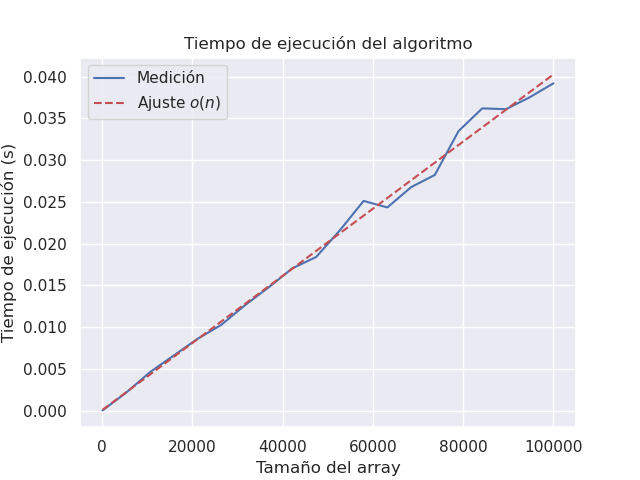
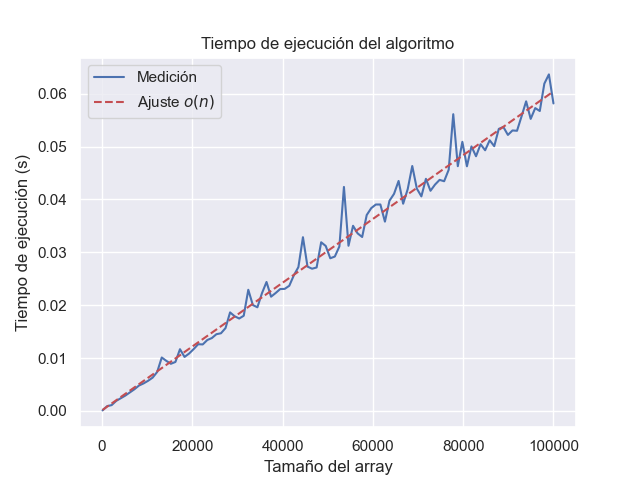
Se agregaron mas sets de datos a las mediciones del tp2

diff --git a/Primera Parte/grafico.py b/Primera Parte/grafico.py
@@ -6,46 +6,48 @@ import seaborn as sns
 import numpy as np
 import scipy as sp
 from util import time_algorithm
-
-
-# Siempre seteamos la seed de aleatoridad para que los # resultados sean reproducibles
-seed(12345)
-np.random.seed(12345)
-
-sns.set_theme()
+from multiprocessing import freeze_support
 
 def get_random_array(size: int):
-    return np.random.randint(0, 100.000, size)
+    return np.random.randint(0, 100_000, size)
 
-x = np.linspace(100, 100_000, 20).astype(int)
-results = time_algorithm(juego_greedy, x, lambda s: [get_random_array(s)])
+def main():
+    # Siempre seteamos la seed de aleatoridad para que los resultados sean reproducibles
+    seed(12345)
+    np.random.seed(12345)
 
+    sns.set_theme()
 
-#funcion lineal
-f_n = lambda n, c1, c2: c1 * n + c2
+    x = np.linspace(100, 100_000, 100).astype(int)
+    results = time_algorithm(juego_greedy, x, lambda s: [get_random_array(s)])
 
-## Para ajustar la funcion
-c_n, _ = sp.optimize.curve_fit(f_n, x, [results[n] for n in x])
+    #funcion lineal
+    f_n = lambda n, c1, c2: c1 * n + c2
 
-ax: plt.Axes
-fig, ax = plt.subplots()
-ax.plot(x, [results[n] for n in x], label="Medición")
-ax.plot(x, [f_n(n, c_n[0], c_n[1]) for n in x], 'r--', label="Ajuste $o(n)$")
-ax.set_title('Tiempo de ejecución del algoritmo')
-ax.set_xlabel('Tamaño del array')
-ax.set_ylabel('Tiempo de ejecución (s)')
-ax.legend()
-None
+    ## Para ajustar la funcion
+    c_n, _ = sp.optimize.curve_fit(f_n, x, [results[n] for n in x])
 
-errors_n = [np.abs(c_n[0] * n + c_n[1] - results[n]) for n in x]
+    ax: plt.Axes
+    fig, ax = plt.subplots()
+    ax.plot(x, [results[n] for n in x], label="Medición")
+    ax.plot(x, [f_n(n, c_n[0], c_n[1]) for n in x], 'r--', label="Ajuste $o(n)$")
+    ax.set_title('Tiempo de ejecución del algoritmo')
+    ax.set_xlabel('Tamaño del array')
+    ax.set_ylabel('Tiempo de ejecución (s)')
+    ax.legend()
 
-ax: plt.Axes
-fig, ax = plt.subplots()
-ax.plot(x, errors_n, label="Ajuste $O(n)$")
-ax.set_title('Error de ajuste')
-ax.set_xlabel('Tamaño del array')
-ax.set_ylabel('Error absoluto (s)')
-ax.legend()
-None
+    errors_n = [np.abs(c_n[0] * n + c_n[1] - results[n]) for n in x]
 
-plt.show()
+    ax: plt.Axes
+    fig, ax = plt.subplots()
+    ax.plot(x, errors_n, label="Ajuste $O(n)$")
+    ax.set_title('Error de ajuste')
+    ax.set_xlabel('Tamaño del array')
+    ax.set_ylabel('Error absoluto (s)')
+    ax.legend()
+
+    plt.show()
+
+if __name__ == '__main__':
+    freeze_support()
+    main()
